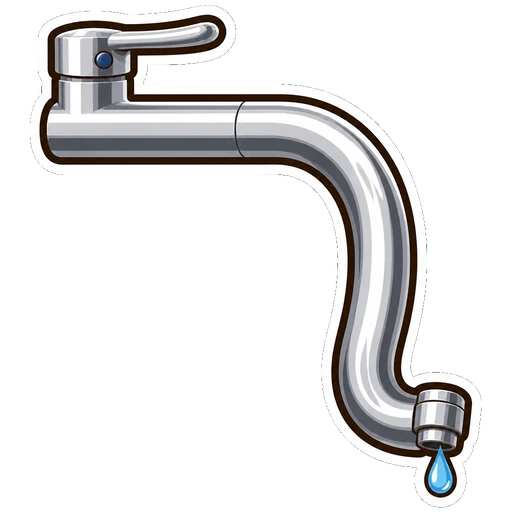
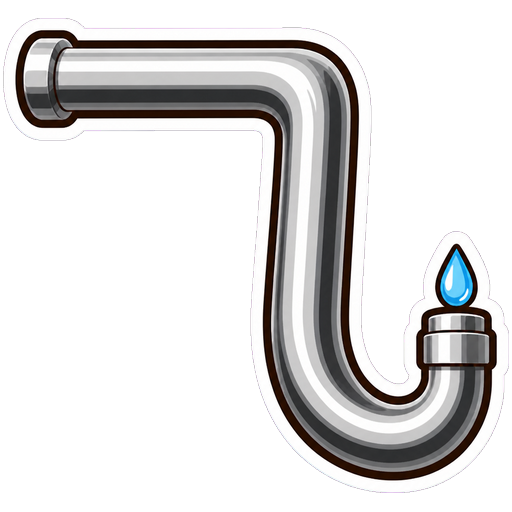
Redraw 橫折彎鈎 faucet without handle, spout pointing up.
The lever on top of the 橫 made the object look like 直橫折彎鈎. The
gooseneck is now a plain pipe, and the outlet plus water drop flick
upward so the 鈎 is readable.

diff --git a/apps/巧手猜猜字/src/data/strokes.ts b/apps/巧手猜猜字/src/data/strokes.ts
@@ -169,7 +169,7 @@ export const STROKES: StrokeDef[] = [
     material: '金屬水管',
     stage: 3,
     examples: ['丸', '九'],
-    hint: '先一小段橫，右轉折向下，再彎向右，尾端上鈎。鵝頸水龍頭就是這個形。',
+    hint: '先一小段橫，右轉折向下，再彎向右，出水口和水滴朝上鈎。只有鵝頸水管，橫上沒有擰把手。',
   },
   {
     id: 'henggou',

diff --git a/apps/巧手猜猜字/src/lib/strokeMetrics.ts b/apps/巧手猜猜字/src/lib/strokeMetrics.ts
@@ -58,7 +58,7 @@ const CONTENT: Record<string, { w: number; h: number }> = {
   hengpie: { w: 0.773, h: 0.984 },
   hengpiewangou: { w: 0.635, h: 0.852 },
   hengwangou: { w: 0.855, h: 0.98 },
-  hengzhewangou: { w: 0.883, h: 0.982 },
+  hengzhewangou: { w: 0.988, h: 0.928 },
   henggou: { w: 0.98, h: 0.328 },
   zhizheng: { w: 0.98, h: 0.922 },
   zhizhengzhi: { w: 0.602, h: 0.984 },
